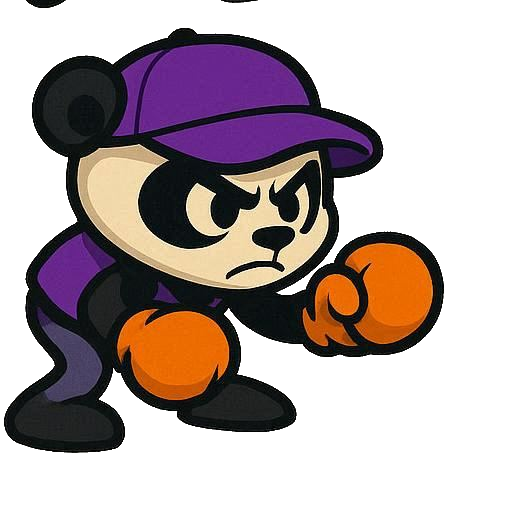
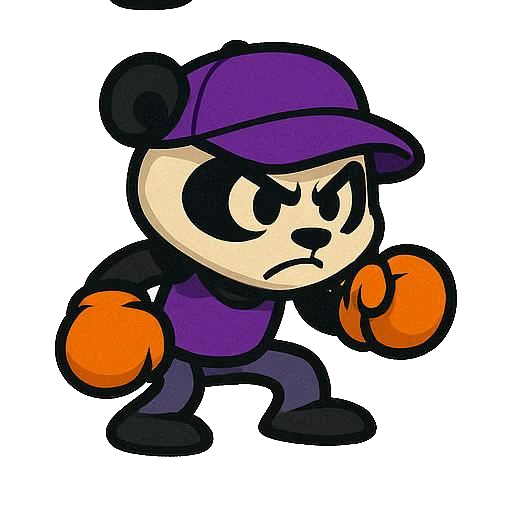
fix: sprite swap, hero positioning and duck physics
- Swap punch/duck sprites: bottom-left=duck (crouch), bottom-right=punch
- Set sprite origin to (0.5, 1.0) — feet-anchored, fixes y-axis alignment
- Add body.setCollideWorldBounds(true) — prevents going above y=0
- Remove body.setSize/setOffset from duck: resizing body while on ground
  shifts sprite.y upward (body.y anchored to ground, sprite repositions);
  duck now only swaps texture, no physics body change
- Spawn player at y=720 (just above ground top at 728)

diff --git a/src/game/entities/Player.ts b/src/game/entities/Player.ts
@@ -37,12 +37,15 @@ export class Player extends Phaser.Physics.Arcade.Sprite {
 
         const body = this.body as Phaser.Physics.Arcade.Body;
         body.setGravityY(300);
-        // Scale 0.18 → sprite displayed at 512*0.18 = 92px world size.
-        // Character feet sit at ~86px from sprite top (93% of cell height).
-        // Body (46×68): offset_y(18) + height(68) = 86 → bottom aligns with feet.
-        body.setSize(46, 68);
-        body.setOffset(23, 18);
+        body.setCollideWorldBounds(true);
+        // Scale 0.18 → sprite displayed at 512*0.18 ≈ 92px.
+        // Character fills roughly the center 60% of the cell.
+        // Use display-size body (no setSize) so Phaser auto-sizes to 92×92,
+        // then pull the bottom up slightly via offset to match the feet.
+        // offset.y = 10 keeps feet near the bottom of the 92px sprite.
+        body.setOffset(10, 10);
         this.setScale(0.18);
+        this.setOrigin(0.5, 1);   // anchor at feet — bottom of sprite = player y
         this.setDepth(10);
 
         this.cursors = scene.input.keyboard!.createCursorKeys();
@@ -92,16 +95,12 @@ export class Player extends Phaser.Physics.Arcade.Sprite {
         }
 
         // --- Duck ---
+        // Only change the texture — do NOT resize the body (resizing while on ground
+        // shifts sprite.y upward because body.y is anchored to ground).
         if (onGround && this.keyDown.isDown && !moving) {
             this.setState('duck');
-            // Shorter body when ducking: offset_y(36) + height(50) = 86 → same feet alignment
-            body.setSize(46, 50);
-            body.setOffset(23, 36);
             this.updateHitbox();
             return;
-        } else {
-            body.setSize(46, 68);
-            body.setOffset(23, 18);
         }
 
         // --- Jump ---

diff --git a/src/game/scenes/BaseLevel.ts b/src/game/scenes/BaseLevel.ts
@@ -55,8 +55,8 @@ export abstract class BaseLevel extends Scene {
         this.platforms = this.physics.add.staticGroup();
         this.buildPlatforms();
 
-        // Player
-        this.player = new Player(this, 80, 600);
+        // Player — spawn just above the ground (ground top = 728, feet-anchor origin)
+        this.player = new Player(this, 80, 720);
         this.physics.add.collider(this.player, this.platforms);
 
         // Camera follows player
